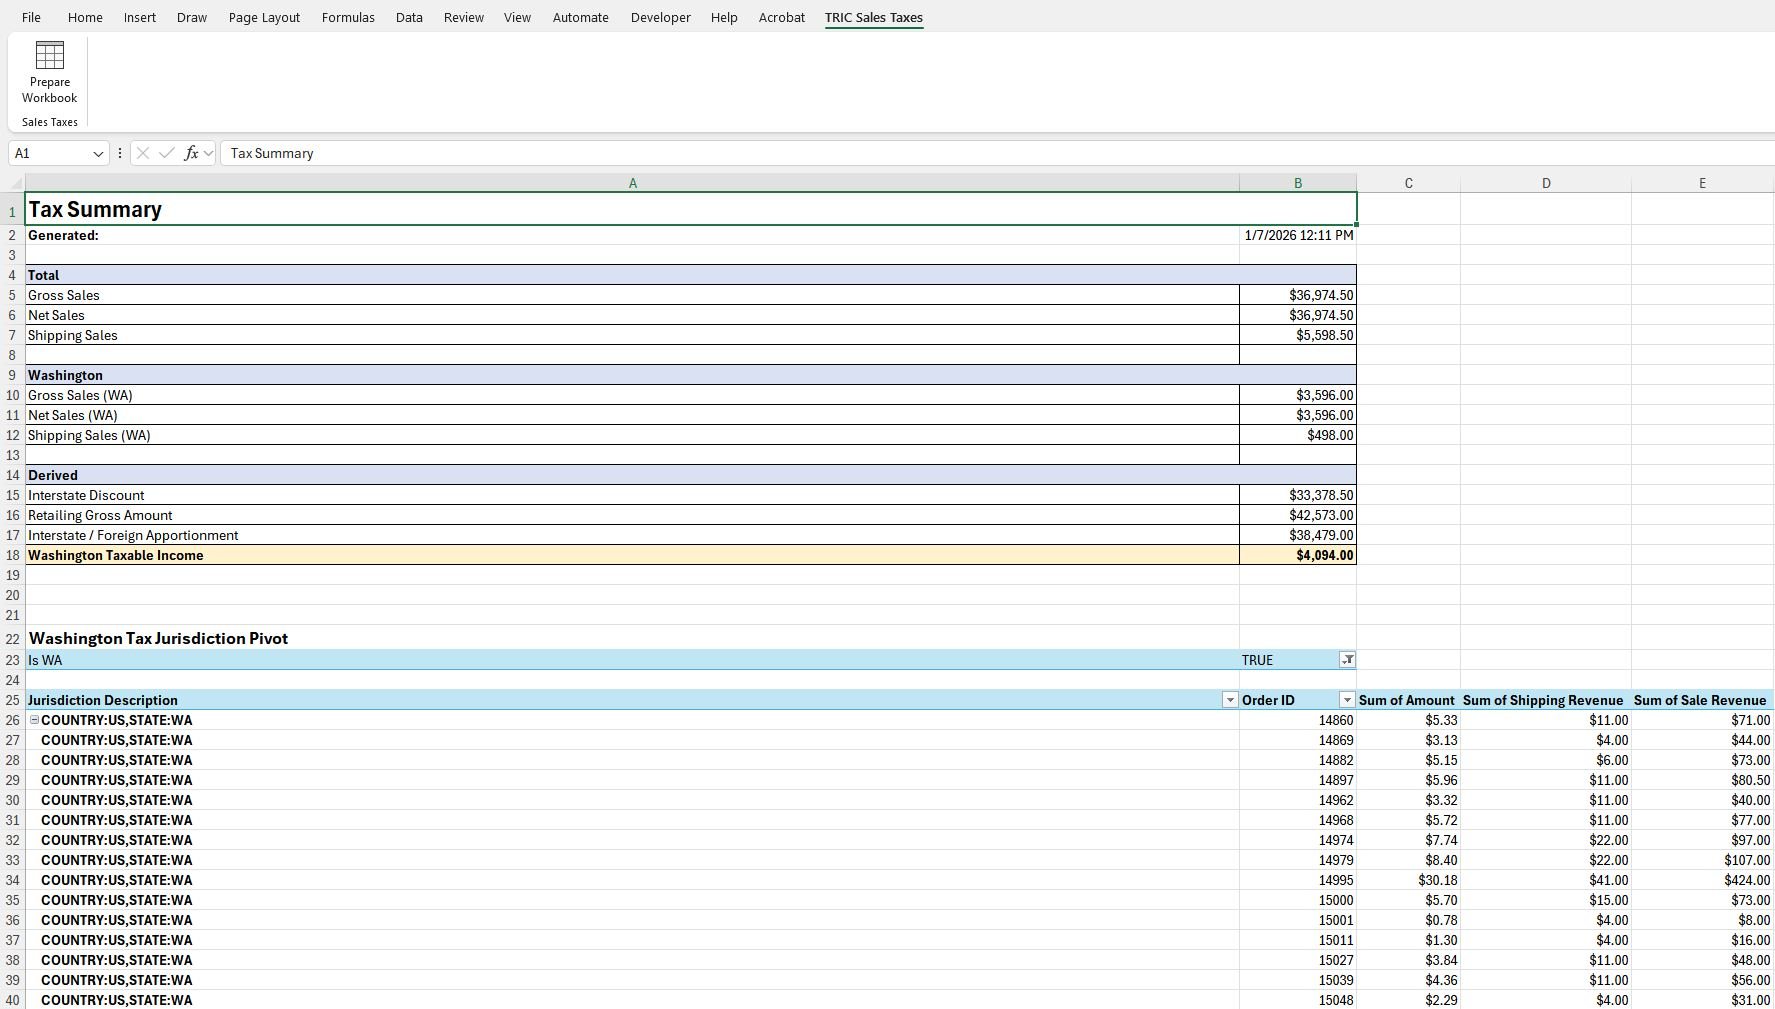
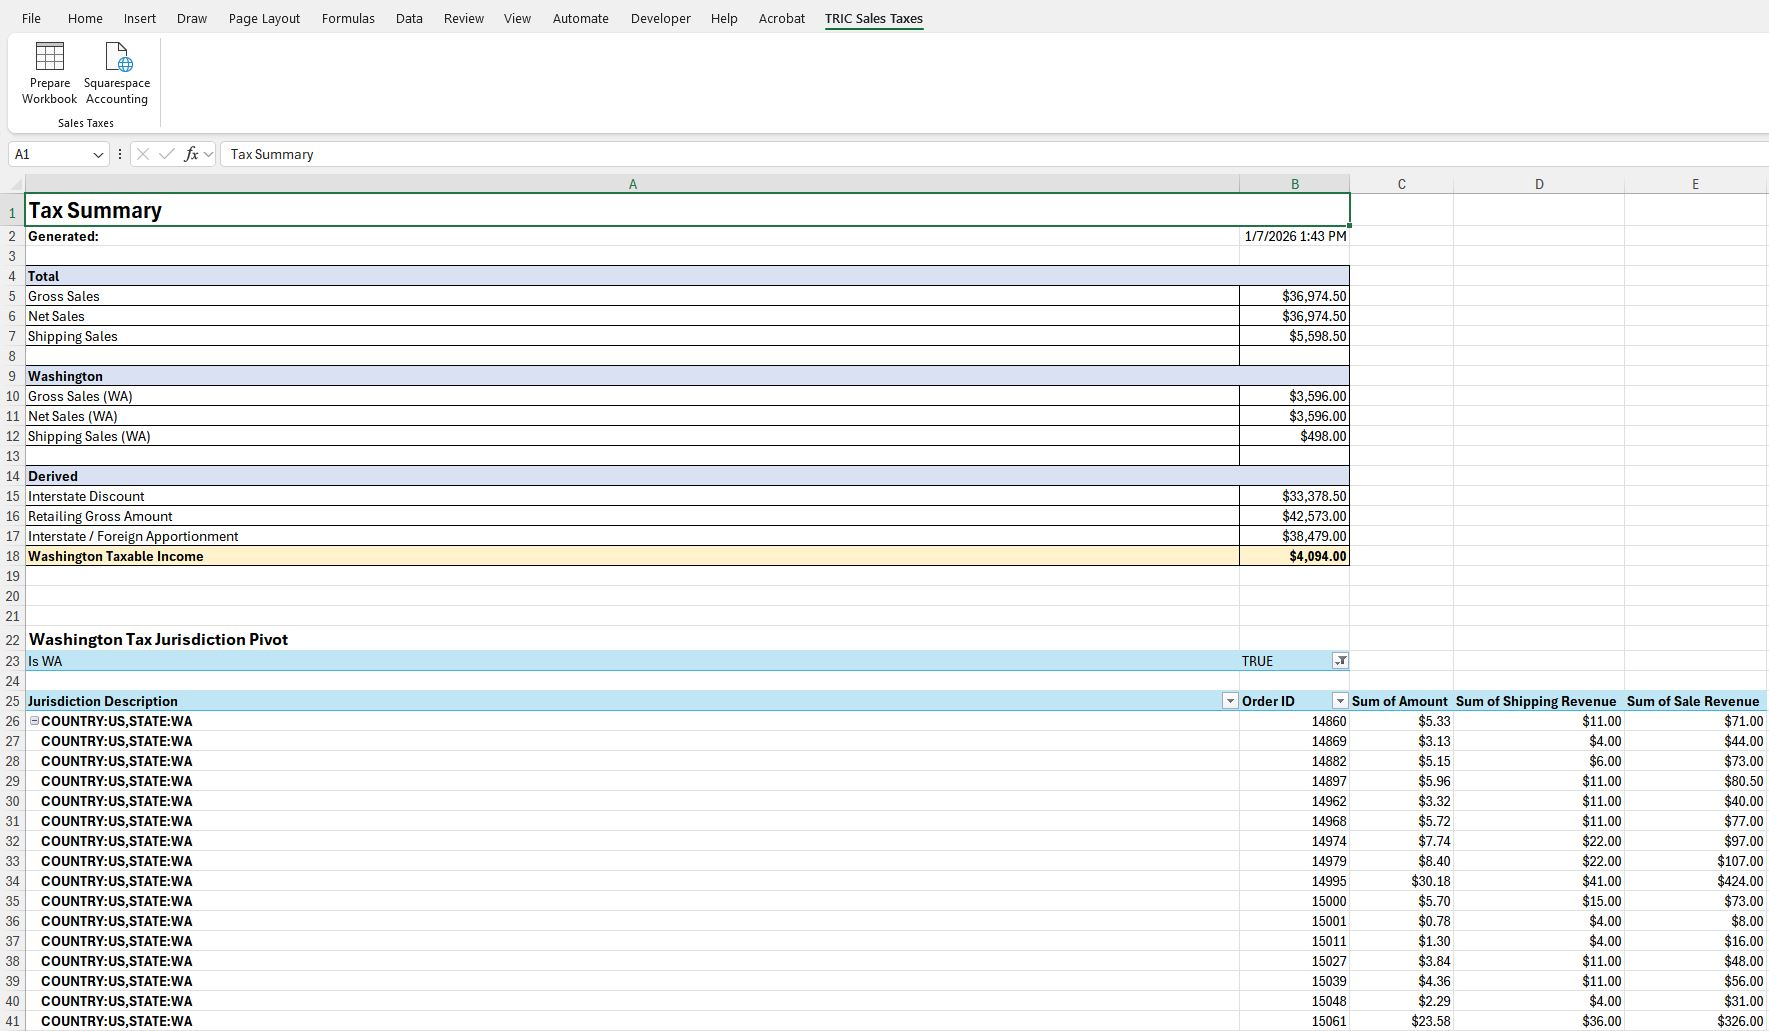
feat: add simple button to take user to squarespace accounting page from the ribbon toolbar

diff --git a/README.md b/README.md
@@ -33,6 +33,8 @@ The macro must run on specifically formatted accounting data that Squarespace pr
 1. Navigate to https://tric.squarespace.com/config/commerce/selling-tools/accounting
 2. Download the report for the desired time frame
 
+Clicking the `Squarespace Accounting` button on the ribbon toolbar will bring you directly to this page.
+
 ---
 
 ## Repository Structure
